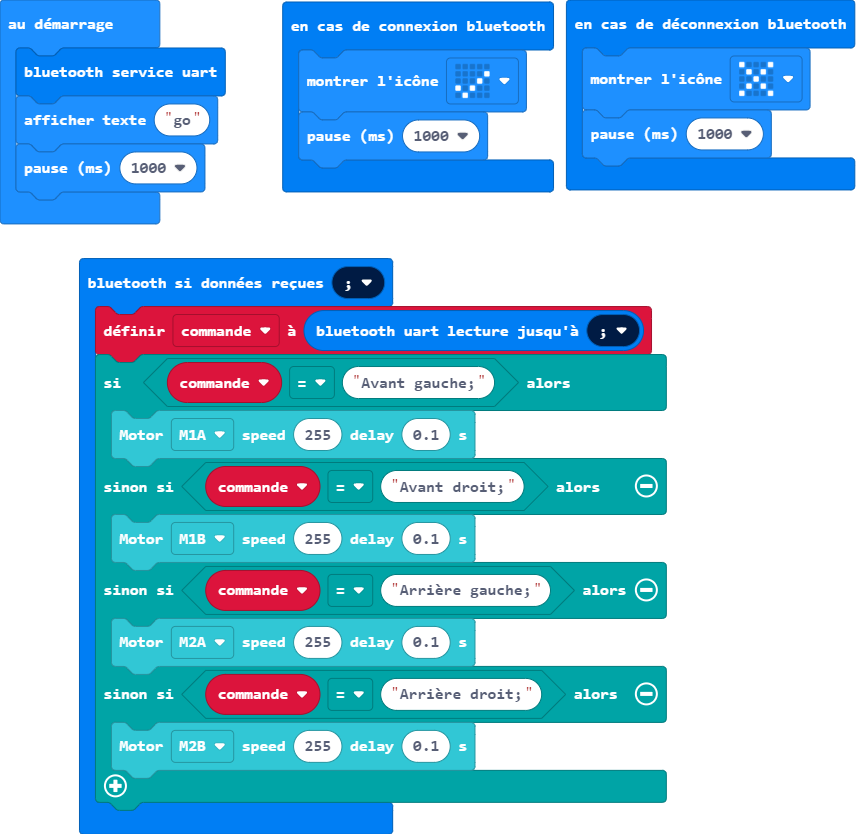
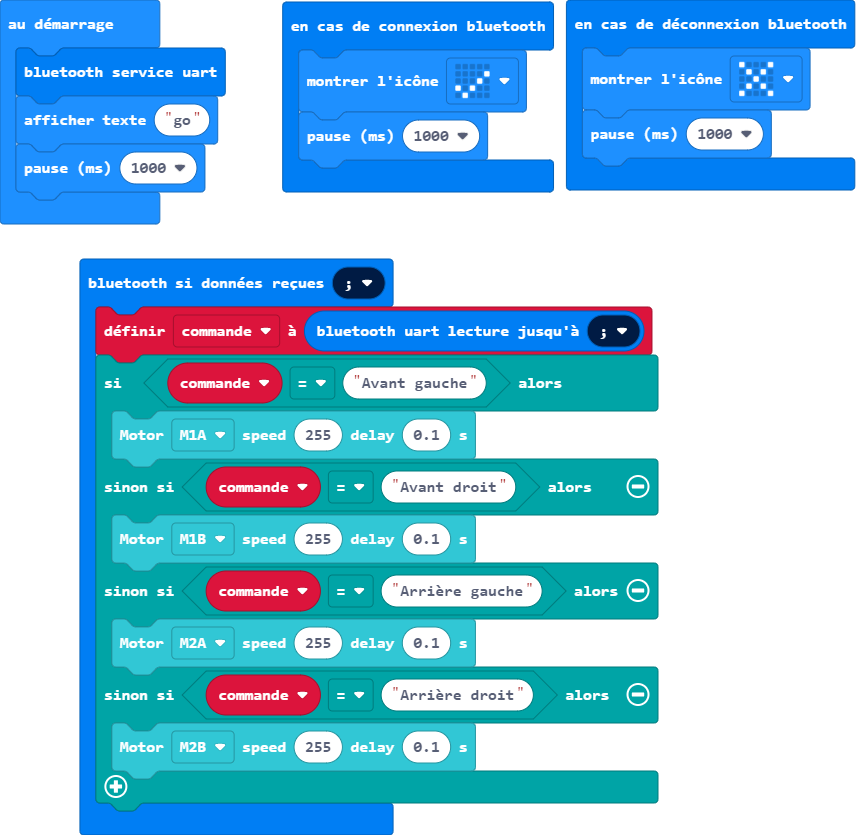
Mise à jour pxt.json, main.blocks, main.ts

diff --git a/main.ts b/main.ts
@@ -8,13 +8,13 @@ bluetooth.onBluetoothDisconnected(function () {
 })
 bluetooth.onUartDataReceived(serial.delimiters(Delimiters.SemiColon), function () {
     commande = bluetooth.uartReadUntil(serial.delimiters(Delimiters.SemiColon))
-    if (commande == "Avant gauche;") {
+    if (commande == "Avant gauche") {
         robotbit.MotorRunDelay(robotbit.Motors.M1A, 255, 0.1)
-    } else if (commande == "Avant droit;") {
+    } else if (commande == "Avant droit") {
         robotbit.MotorRunDelay(robotbit.Motors.M1B, 255, 0.1)
-    } else if (commande == "Arrière gauche;") {
+    } else if (commande == "Arrière gauche") {
         robotbit.MotorRunDelay(robotbit.Motors.M2A, 255, 0.1)
-    } else if (commande == "Arrière droit;") {
+    } else if (commande == "Arrière droit") {
         robotbit.MotorRunDelay(robotbit.Motors.M2B, 255, 0.1)
     }
 })
